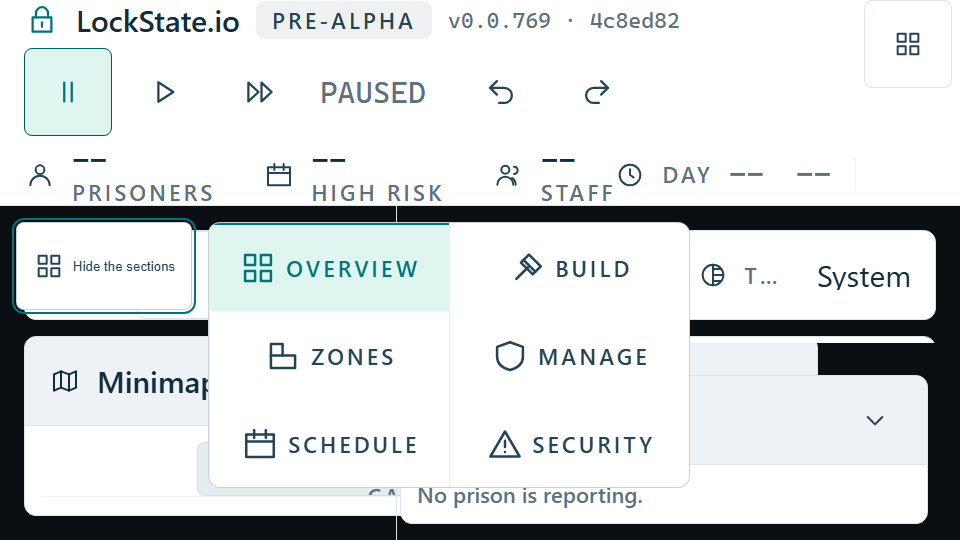
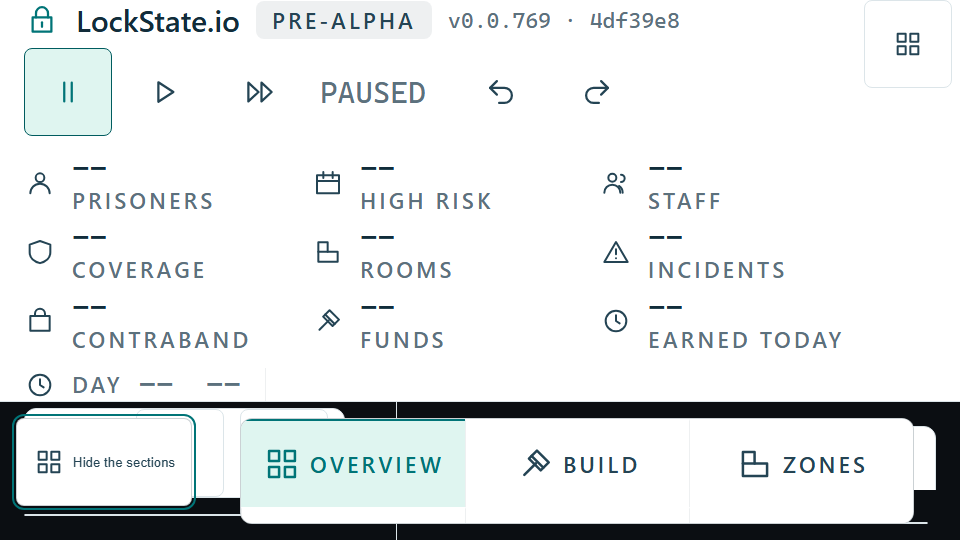
fix(hud): keep all nine metrics above the zoom drawer
The first drawer prototype left metrics horizontally scrolled, contradicting the owner's direction A. Lay out all nine in the top strip; give the remaining middle-row height to a scrollable six-section drawer and keep the chrome control reachable.

diff --git a/tests/browser/fullhd-zoom-navigation-drawer.spec.ts b/tests/browser/fullhd-zoom-navigation-drawer.spec.ts
@@ -11,6 +11,9 @@ for (const uiScale of [1.75, 2]) {
 
     const hud = page.locator('.hud');
     await expect(hud).toHaveAttribute('data-layout-navigation-placement', 'drawer');
+    const readouts = page.locator('.hud-strip__metrics > .ui-stat');
+    await expect(readouts).toHaveCount(9);
+    for (const readout of await readouts.all()) await expect(readout).toBeInViewport();
     const trigger = page.locator('.hud-navigation-drawer__trigger');
     const tabs = page.locator('.hud-tabs__inner');
     await expect(trigger).toBeVisible();
@@ -25,7 +28,21 @@ for (const uiScale of [1.75, 2]) {
     expect(drawerBox).not.toBeNull();
     expect(drawerBox!.x + drawerBox!.width).toBeLessThanOrEqual(960);
     expect(drawerBox!.y + drawerBox!.height).toBeLessThanOrEqual(540);
-    for (const tab of await tabs.locator('.ui-tab').all()) await expect(tab).toBeInViewport();
+    for (const readout of await readouts.all()) {
+      const box = await readout.boundingBox();
+      expect(box).not.toBeNull();
+      expect(box!.y + box!.height).toBeLessThanOrEqual(drawerBox!.y);
+    }
+    for (const tab of await tabs.locator('.ui-tab').all()) {
+      await tab.scrollIntoViewIfNeeded();
+      await expect(tab).toBeInViewport();
+    }
+    await trigger.focus();
+    for (const tab of await tabs.locator('.ui-tab').all()) {
+      await page.keyboard.press('Tab');
+      await expect(tab).toBeFocused();
+      await expect(tab).toBeInViewport();
+    }
     await page.keyboard.press('Escape');
     await expect(tabs).toBeHidden();
     await expect(trigger).toBeFocused();
@@ -34,6 +51,7 @@ for (const uiScale of [1.75, 2]) {
     await tabs.locator('[data-tab="build"]').click();
     await expect(tabs).toBeHidden();
     await expect(trigger).toBeFocused();
+    await page.locator('.display-scale__cycle').scrollIntoViewIfNeeded();
     const layout = await page.evaluate(() => {
       const aside = document.querySelector('.hud__aside') as HTMLElement;
       const cycle = document.querySelector('.display-scale__cycle') as HTMLElement;

diff --git a/src/ui/hud/hud.css b/src/ui/hud/hud.css
@@ -6736,10 +6736,26 @@
 .hud[data-layout-navigation-placement='drawer'] .hud__tabs {
   grid-area: middle;
   justify-self: start;
-  align-self: start;
+  align-self: stretch;
   position: relative;
   z-index: 4;
   padding: var(--space-2);
+}
+
+.hud[data-layout-navigation-placement='drawer'] .hud-strip__metrics:not([hidden]) {
+  display: grid;
+  grid-template-columns: repeat(3, minmax(0, 1fr));
+  flex: 1 0 100%;
+  order: 1;
+  flex-wrap: wrap;
+  overflow-x: visible;
+  margin-right: 0;
+  padding-block: var(--space-1);
+  row-gap: var(--space-1);
+}
+
+.hud[data-layout-navigation-placement='drawer'] .hud-strip__metrics > .ui-stat {
+  min-width: 0;
 }
 
 .hud[data-layout-navigation-placement='drawer'] .hud__tabs > .hud-layout__arrow { display: none; }
@@ -6759,12 +6775,12 @@
 .hud[data-layout-navigation-placement='drawer'] .hud-tabs__inner:not([hidden]) {
   position: absolute;
   top: var(--space-2);
-  left: 100%;
+  bottom: var(--space-2);
+  left: calc(10 * var(--space-3));
   display: grid;
-  grid-template-columns: repeat(2, minmax(0, 1fr));
-  width: min(480px, calc(100vw - 12 * var(--space-3)));
+  grid-template-columns: repeat(3, minmax(0, 1fr));
+  width: min(720px, calc(100vw - 12 * var(--space-3)));
   max-width: none;
-  max-height: calc(100vh - var(--space-3));
   overflow-y: auto;
   border: var(--hairline) solid var(--border-strong);
   background: var(--surface-raised);
@@ -6784,6 +6800,7 @@
 .hud[data-layout-navigation-placement='drawer'] .hud__aside {
   overflow-y: auto;
   overscroll-behavior: contain;
+  min-height: var(--tap-target);
 }
 
 /* Full HD operations frame (owner's 2026-09-24 direction A).

diff --git a/docs/adr/drafts/fullhd-page-zoom-navigation-1333.md b/docs/adr/drafts/fullhd-page-zoom-navigation-1333.md
@@ -68,15 +68,19 @@ explicit close control, Escape support, and focus returned to the trigger.
 ## Implementation check
 
 The closed control is labelled with the existing localized “show sections”
-message. The open two-column drawer is shown in the
+message. The open three-column drawer is shown in the
 [200% capture](../../research/evidence/2026-09-25-fullhd-page-zoom-drawer-200.png).
 The screenshot comes from the test checkout; its world art failed to load, so it
-only supports a judgment about HUD geometry and navigation. The selected tab,
-Escape and the trigger all close the drawer and return keyboard focus to the
-trigger. The save area scrolls inside its own rail at these enlarged sizes.
+only supports a judgment about HUD geometry and navigation. All nine status
+metrics remain above the drawer. At the largest effective zoom, the drawer
+scrolls within the remaining height, and each of its six entries is reachable
+by Tab or pointer. The selected tab, Escape and the trigger all close the drawer
+and return keyboard focus to the trigger. The save area scrolls inside its own
+rail at these enlarged sizes.
 
 The new `fullhd-zoom-navigation-drawer.spec.ts` passed at both 175% and 200%
-interface scale. The existing 36-combination zoom ratchet remained at 12/36
-known failures (ceiling 12), and seven chrome tests passed. TypeScript and the
-40 HUD layout unit tests passed. CI and a visual run with materialised art are
-still required before the branch can be merged.
+interface scale. Nine focused browser cases passed, including seven chrome
+cases; TypeScript and the 40 HUD layout unit tests passed. The existing
+36-combination zoom ratchet remained at 12/36 known failures (ceiling 12)
+after making every metric visible. CI and a visual run with materialised art
+are still required before the branch can be merged.
